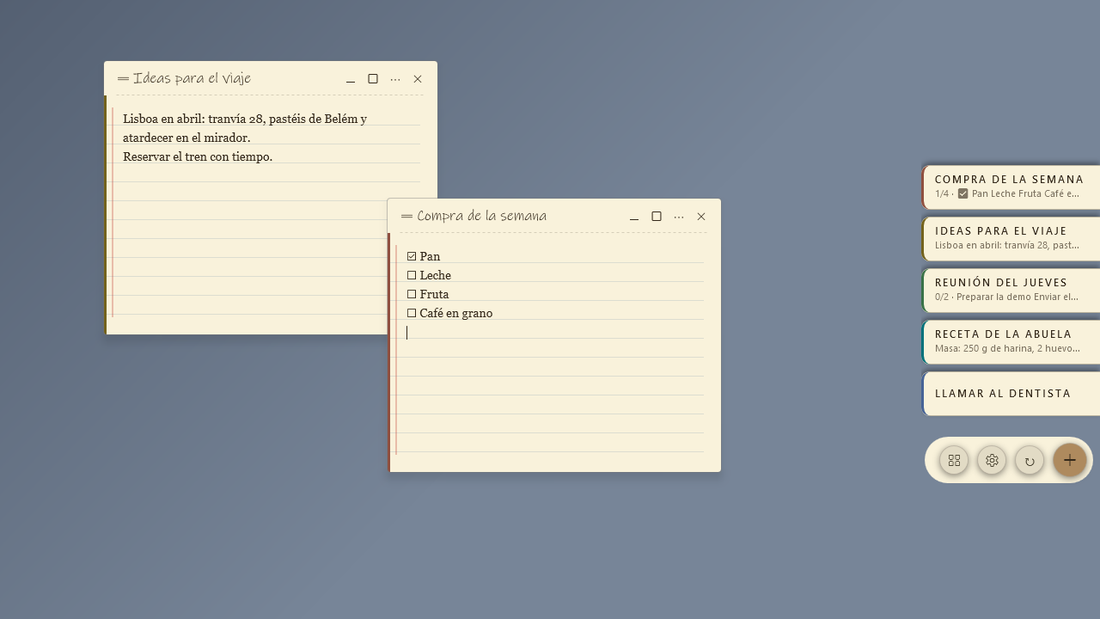
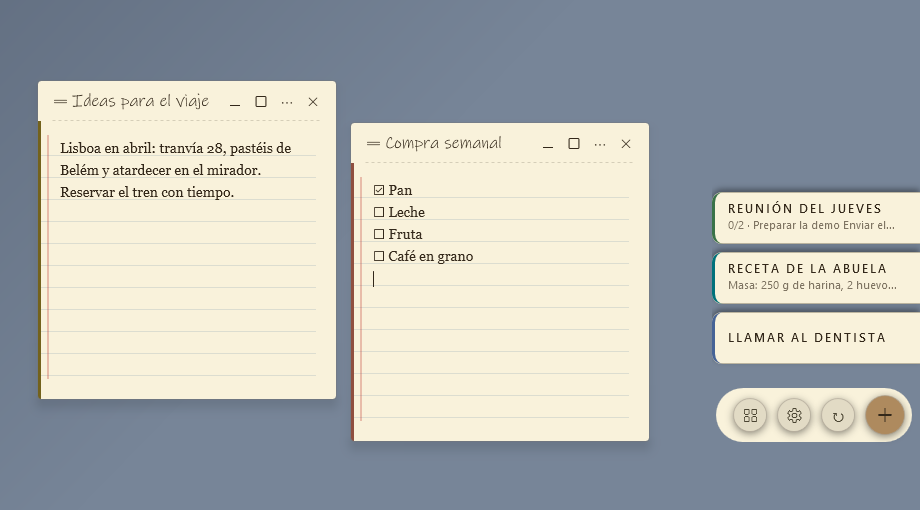
README: GIF real con ratón (hover, clic en pestañas, arrastre de nota y casillas) y capturas con el dock mostrando solo las notas cerradas

diff --git a/README.md b/README.md
@@ -10,7 +10,7 @@ ratón y se abren como ventanas propias. Sin cuenta, sin nube obligatoria, y con
 
 ![Aldune: dos notas abiertas y el dock de pestañas en el borde derecho](docs/images/aldune.png)
 
-![El dock desplegándose en abanico, dos notas abriéndose y dos tareas marcándose](docs/images/dock-abanico.gif)
+![El dock desplegándose al acercar el ratón, dos notas abriéndose desde sus pestañas y dos tareas marcándose](docs/images/dock-abanico.gif)
 
 ## Qué hace
 

diff --git a/README.en.md b/README.en.md
@@ -10,7 +10,7 @@ their own. No account, no required cloud, and the content is encrypted.
 
 ![Aldune: two open notes and the tab dock on the right edge](docs/images/aldune.png)
 
-![The dock fanning out, two notes opening and two tasks being ticked](docs/images/dock-abanico.gif)
+![The dock fanning out as the mouse approaches, two notes opening from their tabs and two tasks being ticked](docs/images/dock-abanico.gif)
 
 ## What it does
 
